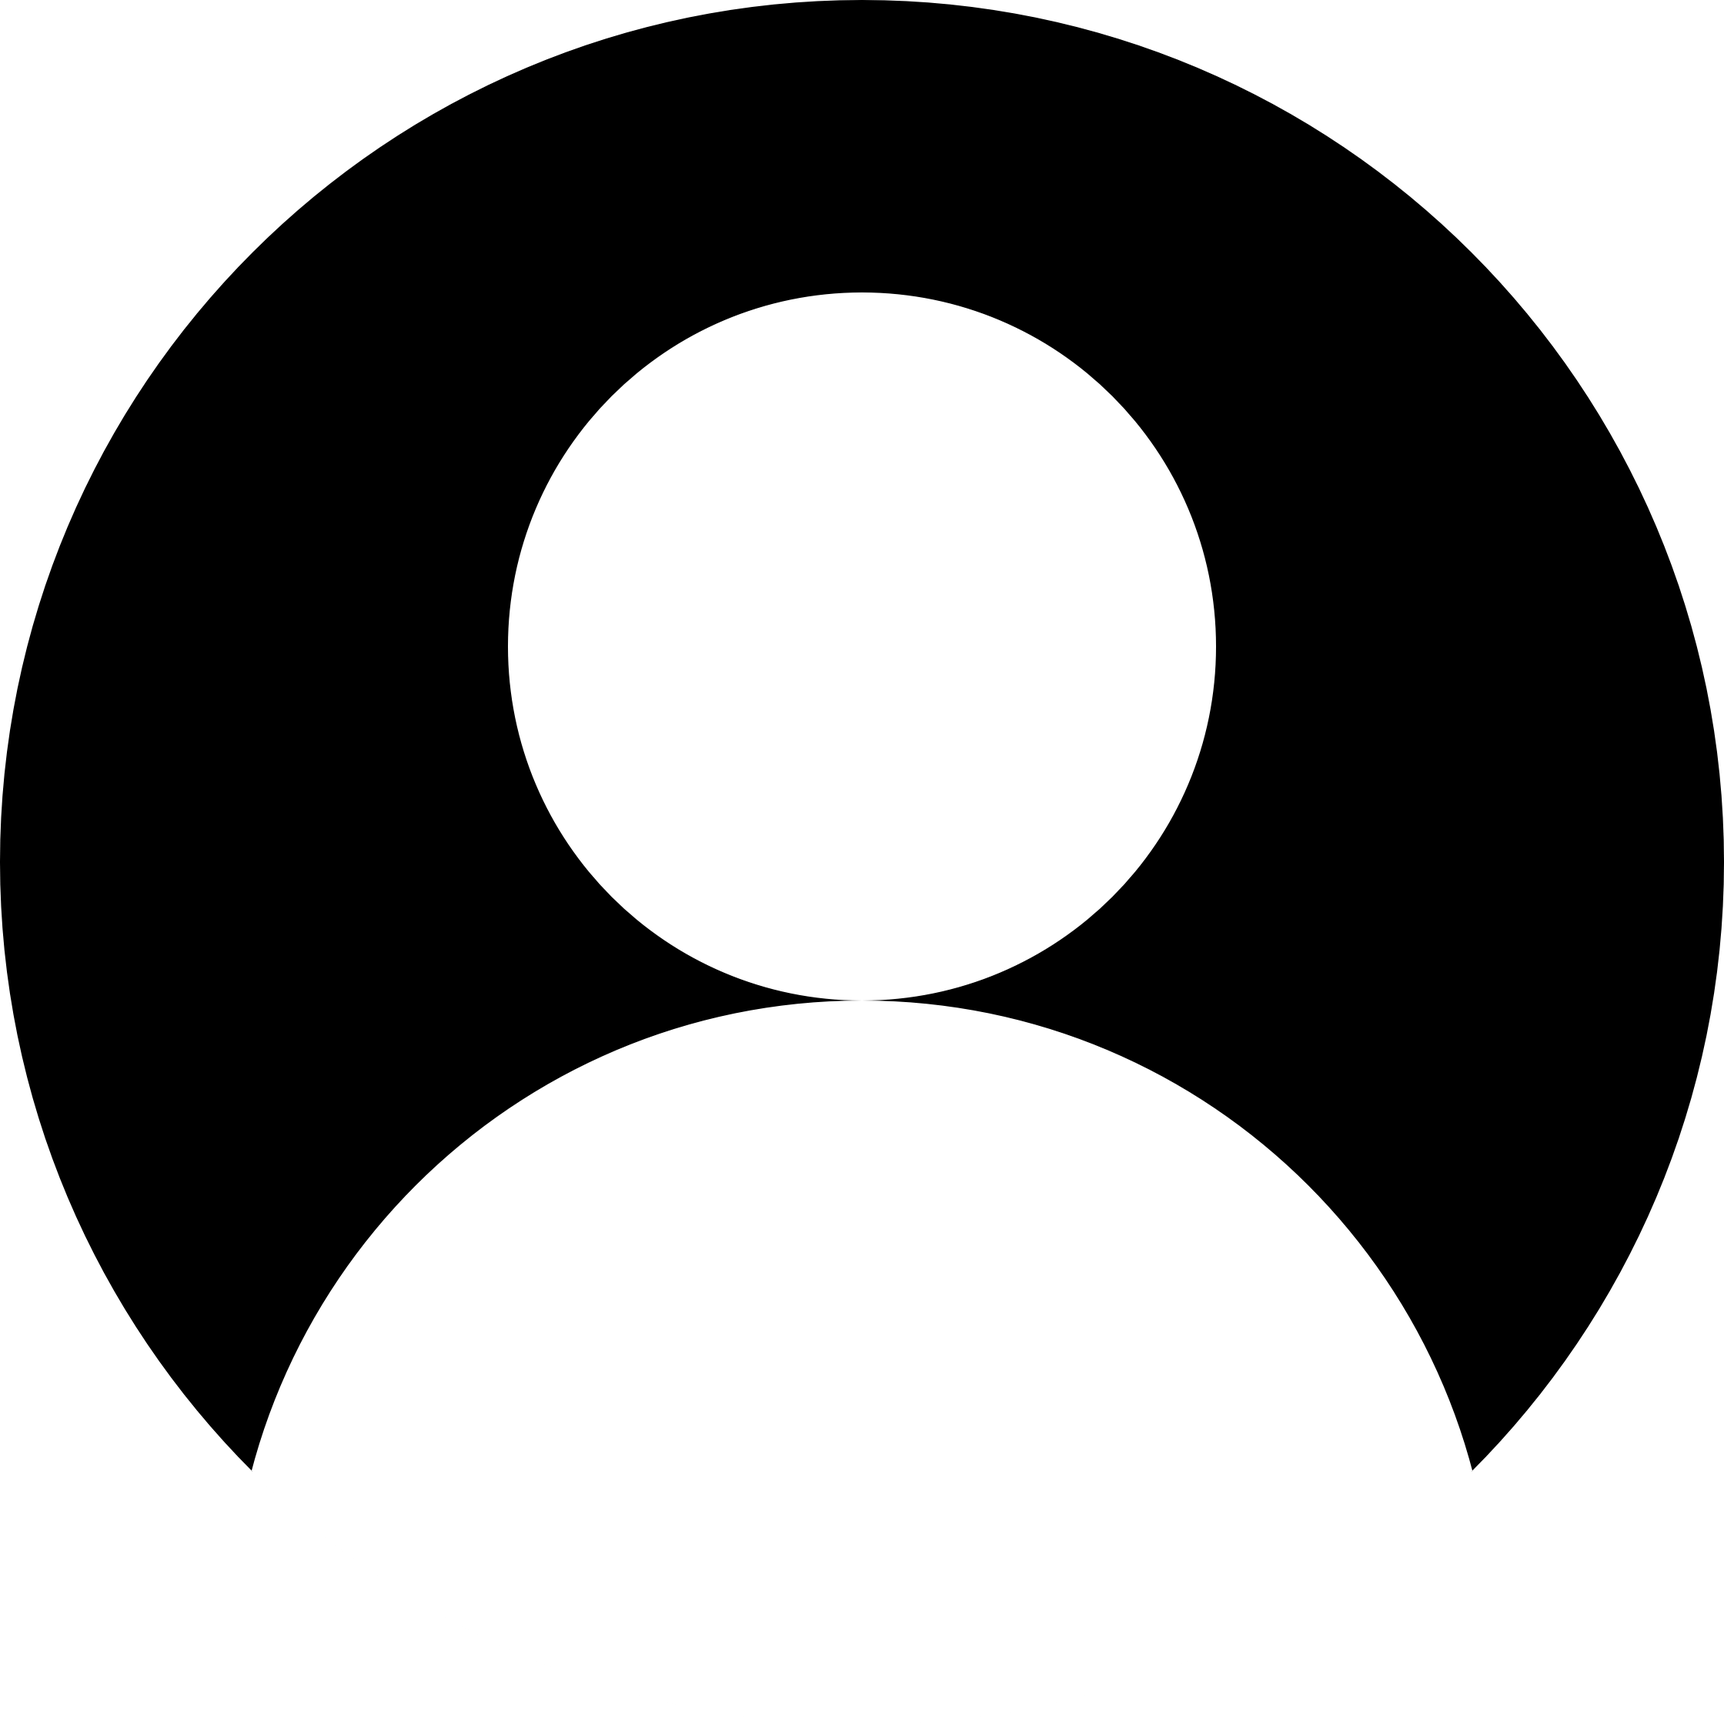
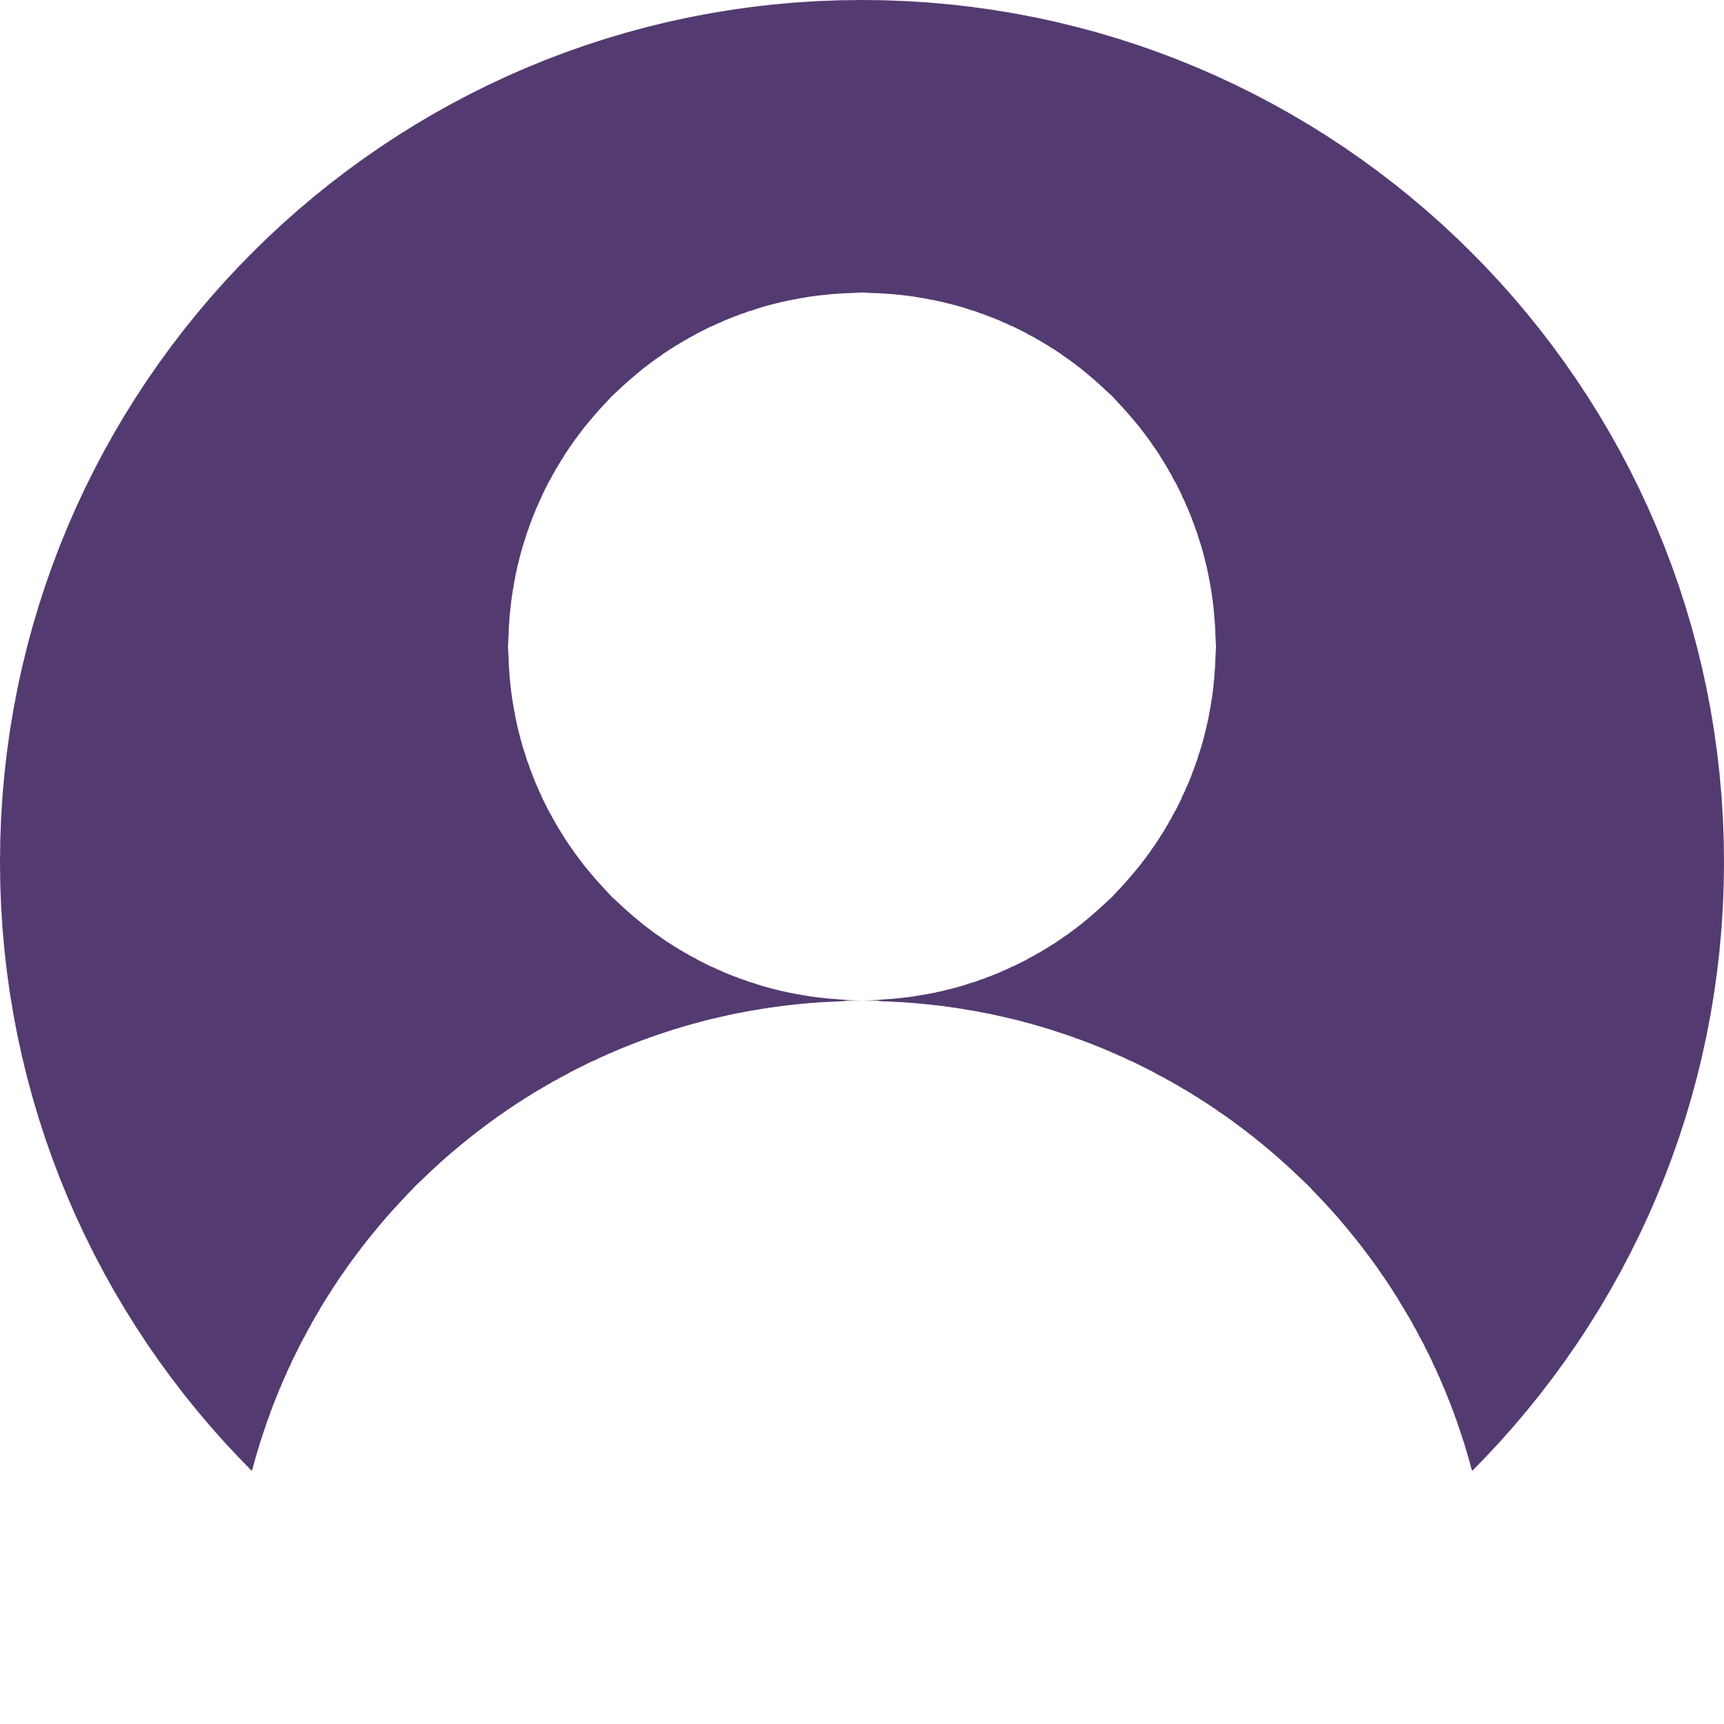
front-end for login & signup
haven't updated the test cases tho

diff --git a/components/signup.js b/components/signup.js
@@ -7,6 +7,7 @@ import { addDoc, collection, setDoc, doc, query, where, getDocs } from "firebase
 import { createUserWithEmailAndPassword } from "firebase/auth";
 import { auth, db } from "../firebaseConfig";
 import { useRouter } from "next/router";
+import Link from "next/link";
 
 export default function Signup(){
 
@@ -61,34 +62,46 @@ export default function Signup(){
     })
 
     return (
-        <div className="flex flex-col p-10">
-            <h1 className="mx-auto mb-10" data-testid="page_title">Signup page</h1>
-            
-            <div className="flex flex-col mx-auto w-2/5 h-auto py-5 rounded-xl bg-white shadow-lg">
+        <div className='bg-signup_page bg-no-repeat bg-cover bg-fixed w-full h-screen'>
+            <div className="flex flex-col p-10">
+                <h1 className="mx-auto mb-8 text-[32px] font-logo text-white" data-testid="page_title">SIGN UP</h1>
+                
+                <div className="flex flex-col mx-auto w-2/5 h-auto py-5 rounded-xl bg-white shadow-lg opacity-90">
 
-                <form className="flex flex-col mx-auto w-full h-[400px] py-5 rounded-xl" data-testid="form">
-                    
-                    <p className={`${emailExists ? "" : "hidden"} text-red-500 mx-auto`}>Error: Invalid Email / Email already taken</p>
-                    <label className="w-2/3 mx-auto mt-10" htmlFor="email">Email:</label>
-                    <input className="w-2/3 h-10 mx-auto mb-10 border border-black rounded-md px-2" placeholder="Email..." type="text" name="email" id="email" 
-                        onChange={(e) => setEmail(e.target.value) } data-testid="email_input" required
-                    />
+                    <form className="flex flex-col mx-auto w-full py-5 rounded-xl" data-testid="form">
+                        
+                        <div className='grid grid-flow-col auto-col-max w-2/3 mx-auto mt-4'>
+                            <label className="w-fit font-bold text-left ml-1" htmlFor="email">Email:</label>
+                            <span className={`${emailExists ? "" : "hidden"} text-red-500 text-right mr-1`} id='email-error'>Error: Invalid Email / Email already taken</span>
+                        </div>
+                        <input className="w-2/3 h-10 mx-auto mb-8 border border-black rounded-md px-2" placeholder="Email..." type="text" name="email" id="email" 
+                            onChange={(e) => setEmail(e.target.value) } data-testid="email_input" required
+                        />
 
-                    <label className="w-2/3 mx-auto" htmlFor="email">Password:</label>
-                    <input className="w-2/3 h-10 mx-auto mb-10 border border-black rounded-md px-2" placeholder="Password..." type="password" name="password" id="password" 
-                        onChange={(e) => setPass(e.target.value) } data-testid="pass_input" required
-                    />
-                    
-                    <p className={`${samePass ? "hidden" : ""} text-red-500 mx-auto`}>Error: Passwords do not match</p>
-                    <label className="w-2/3 mx-auto" htmlFor="email">Re-enter Password:</label>
-                    <input className="w-2/3 h-10 mx-auto border border-black rounded-md px-2" placeholder="Re-enter Password..." type="password" name="rep_pass" id="rep_pass" 
-                        onChange={(e) => setRepPass(e.target.value) } data-testid="rep_pass_input" required
-                    />
-                </form>
-            
-                <button className="w-1/3 mx-auto mb-10 py-2 rounded-[20px] bg-slate-200" type="submit" onClick={() => handleSubmit()} data-testid="submit_btn">
-                    Submit
-                </button>
+                        <label className="w-2/3 mx-auto font-bold" htmlFor="email">Password:</label>
+                        <input className="w-2/3 h-10 mx-auto mb-8 border border-black rounded-md px-2" placeholder="Password..." type="password" name="password" id="password" 
+                            onChange={(e) => setPass(e.target.value) } data-testid="pass_input" required
+                        />
+                        
+                        <div className='grid grid-flow-col auto-col-max w-2/3 mx-auto'>
+                            <label className="w-fit font-bold text-left ml-1" htmlFor="email">Re-enter Password:</label>
+                            <span className={`${samePass ? "hidden" : ""} text-red-500 text-right mr-1`} id='password-error'>Error: Passwords do not match</span>
+                        </div>
+                        <input className="w-2/3 h-10 mx-auto mb-8 border border-black rounded-md px-2" placeholder="Re-enter Password..." type="password" name="rep_pass" id="rep_pass" 
+                            onChange={(e) => setRepPass(e.target.value) } data-testid="rep_pass_input" required
+                        />
+                    </form>
+                
+                    <button className="w-1/3 mx-auto mb-8 py-2 rounded-[20px] bg-nav_bg font-bold text-white
+                                        hover:transition duration-300 hover:bg-nav_bg_dark" type="submit" onClick={() => handleSubmit()} data-testid="submit_btn">
+                        SIGN UP
+                    </button>
+
+                    <div className='flex justify-center py-2'>
+                        <span className='pr-1'>Already have an account?</span>
+                        <Link href="/login" className="hover:transition duration-300 hover:text-violet-800 hover:underline">Login</Link>
+                    </div>   
+                </div>
             </div>
         </div>
     )

diff --git a/components/login.js b/components/login.js
@@ -4,6 +4,7 @@ import { useState, useEffect } from "react";
 import { signInWithEmailAndPassword } from "firebase/auth";
 import { auth } from "../firebaseConfig";
 import { useRouter } from "next/router";
+import Link from "next/link";
 
 export default function Login(){
 
@@ -35,28 +36,37 @@ export default function Login(){
     })
 
     return (
-        <div className="flex flex-col p-10">
-            <h1 className="mx-auto mb-10" data-testid="page_title">Login page</h1>
-            
-            <div className="flex flex-col mx-auto w-2/5 h-auto py-5 rounded-xl bg-white shadow-lg">
-                <p className={`${wrongCred ? "" : "hidden"} text-red-500 mx-auto`}>Incorrect Email or Password</p>
+        <div className='bg-login_page bg-no-repeat bg-cover bg-fixed w-full h-screen'>
+            <div className="flex flex-col p-10">
+                <h1 className="mx-auto mb-8 text-[32px] font-logo text-white" data-testid="page_title">LOGIN</h1>
+                
+                <div className="flex flex-col mx-auto w-2/5 h-auto py-5 rounded-xl bg-white shadow-lg opacity-90">
+                    <form className="flex flex-col mx-auto w-full pt-5 rounded-xl" data-testid="form">
+                        
+                        <label className="w-2/3 mx-auto mt-10 font-bold" htmlFor="email">Email:</label>
+                        <input className="w-2/3 h-10 mx-auto mb-10 border border-black rounded-md px-2" placeholder="Email..." type="text" name="email" id="email" 
+                            onChange={(e) => setEmail(e.target.value) } required onKeyDown={(e) => {e.key == 'enter' ? handleSubmit() : ""}} data-testid="email_input" 
+                        />
 
-                <form className="flex flex-col mx-auto w-full h-[400px] py-5 rounded-xl">
-                    
-                    <label className="w-2/3 mx-auto mt-10" htmlFor="email">Email:</label>
-                    <input className="w-2/3 h-10 mx-auto mb-10 border border-black rounded-md px-2" placeholder="Email..." type="text" name="email" id="email" 
-                        onChange={(e) => setEmail(e.target.value) } required onKeyDown={(e) => {e.key == 'enter' ? handleSubmit() : ""}} data-testid="email_input" 
-                    />
+                        <label className="w-2/3 mx-auto font-bold" htmlFor="email">Password:</label>
+                        <input className="w-2/3 h-10 mx-auto mb-10 border border-black rounded-md px-2" placeholder="Password..." type="password" name="password" id="password" 
+                            onChange={(e) => setPass(e.target.value) } required onKeyDown={(e) => {e.key == 'enter' ? handleSubmit() : ""}} data-testid="pass_input" 
+                        />
+                        
+                    </form>
 
-                    <label className="w-2/3 mx-auto" htmlFor="email">Password:</label>
-                    <input className="w-2/3 h-10 mx-auto mb-10 border border-black rounded-md px-2" placeholder="Password..." type="password" name="password" id="password" 
-                        onChange={(e) => setPass(e.target.value) } required onKeyDown={(e) => {e.key == 'enter' ? handleSubmit() : ""}} data-testid="pass_input" 
-                    />
-                    
-                </form>
-            
-                <button className="w-1/3 mx-auto mb-10 py-2 rounded-[20px] bg-slate-200" type="submit" data-testid="submit_btn" 
-                    onClick={() => handleSubmit()}>Submit</button>
+                    <p className={`${wrongCred ? "" : "invisible"} text-red-500 mx-auto my-3`}>Incorrect Email or Password</p>
+                
+                    <button className="w-1/3 mx-auto mb-8 py-2 rounded-[20px] bg-nav_bg font-bold text-white
+                                        hover:transition duration-300 hover:bg-nav_bg_dark" type="submit" onClick={() => handleSubmit()} data-testid="submit_btn">
+                        LOGIN
+                    </button>
+
+                    <div className='flex justify-center py-2'>
+                        <span className='pr-1'>Don't have an account yet?</span>
+                        <Link href="/signup" className="hover:transition duration-300 hover:text-violet-800 hover:underline">Sign Up</Link>
+                    </div>   
+                </div>
             </div>
         </div>
     )

diff --git a/components/navbar.js b/components/navbar.js
@@ -50,25 +50,26 @@ export default function Navbar() {
     }
 
     return (
-        <div className="w-full h-20 bg-nav_bg flex px-10 drop-shadow-lg shadow-sm text-white sticky top-0 z-50"
+        <div className="w-full h-20 bg-nav_bg flex px-10 drop-shadow-lg shadow-sm text-white sticky top-0 z-50
+                        grid grid-flow-col auto-col-max"
                 data-testid="nav_container">
 
-            <div className="my-auto w-1/4">
+            <div className="my-auto w-fit">
                 <Link href="/" className="hover:transition duration-300 hover:text-violet-800 w-fit flex items-center">
-                    <Image src={"/images/logo.png"} width={50} height={50} />
+                    <Image src={"/images/logo.png"} width={50} height={50} alt="FaceGram logo" />
                     <span className="w-fit px-2 text-[32px] font-logo">FaceGram</span>
                 </Link>
             </div>
             
 
-            <div className="mx-auto my-auto w-2/3 flex justify-end">
+            <div className="mx-auto my-auto w-full flex justify-end col-span-3">
                 <input className="my-auto h-12 w-1/2 px-5 rounded-full text-black focus:outline-blue-100" 
                     onKeyDown={(e) => {
                         console.log(e.key)
-                    }} type="text" placeholder="Search..."/>
+                    }} type="text" size="75" placeholder="Search..."/>
             </div>
             
-            <div className="ml-auto flex gap-5 w-1/4 justify-end">
+            <div className="ml-auto pl-3 flex gap-5 w-fit justify-end">
                 <div className={`my-auto flex items-center ${currUser ? "" : "hidden"}`} >
                     <div className="hover:transition duration-300 hover:text-violet-800 cursor-pointer flex items-center"
                         onClick={() => handlePost()}>
@@ -82,7 +83,7 @@ export default function Navbar() {
                 
 
                 <div className={`my-auto ${currUser ? "hidden" : ""}`} data-testid="signup_link">
-                    <Link href="/signup" className="hover:transition duration-300 hover:text-violet-800">Signup</Link>
+                    <Link href="/signup" className="hover:transition duration-300 hover:text-violet-800">Sign Up</Link>
                 </div>
 
                 <div className={`my-auto ${currUser ? "hidden" : ""}`} data-testid="login_link">

diff --git a/__tests__/snapshot.js b/__tests__/snapshot.js
@@ -1,13 +1,33 @@
-import { render } from '@testing-library/react'
-import Card from '../components/card'
-import Homepage from '../components/homepage'
+// Jest Snapshot v1, https://goo.gl/fbAQLP
 
-// it('renders homepage unchanged', () => {
-//     const { container } = render(<Homepage />)
-//     expect(container).toMatchSnapshot()
-// })
-
-// it('renders card unchanged', () => {
-//   const { container } = render(<Card />)
-//   expect(container).toMatchSnapshot()
-// })
+exports[`renders homepage unchanged 1`] = `
+<div>
+  <div
+    class="text-center mt-5"
+  >
+    <div
+      class="mb-5 w-1/4 mx-auto bg-[#4487d4] rounded-lg py-2 cursor-pointer hover:brightness-90"
+    >
+      <p
+        class="text-[20px] text-white"
+      >
+        POST AN IMAGE
+      </p>
+    </div>
+    <div
+      class="w-[50px] h-[50px] mx-auto mb-5 relative justify-center"
+    >
+      <img
+        alt=""
+        data-nimg="fill"
+        decoding="async"
+        loading="lazy"
+        sizes="(max-width: 500px)"
+        src="/_next/image?url=%2Fimages%2Floading.gif&w=3840&q=75"
+        srcset="/_next/image?url=%2Fimages%2Floading.gif&w=16&q=75 16w, /_next/image?url=%2Fimages%2Floading.gif&w=32&q=75 32w, /_next/image?url=%2Fimages%2Floading.gif&w=48&q=75 48w, /_next/image?url=%2Fimages%2Floading.gif&w=64&q=75 64w, /_next/image?url=%2Fimages%2Floading.gif&w=96&q=75 96w, /_next/image?url=%2Fimages%2Floading.gif&w=128&q=75 128w, /_next/image?url=%2Fimages%2Floading.gif&w=256&q=75 256w, /_next/image?url=%2Fimages%2Floading.gif&w=384&q=75 384w, /_next/image?url=%2Fimages%2Floading.gif&w=640&q=75 640w, /_next/image?url=%2Fimages%2Floading.gif&w=750&q=75 750w, /_next/image?url=%2Fimages%2Floading.gif&w=828&q=75 828w, /_next/image?url=%2Fimages%2Floading.gif&w=1080&q=75 1080w, /_next/image?url=%2Fimages%2Floading.gif&w=1200&q=75 1200w, /_next/image?url=%2Fimages%2Floading.gif&w=1920&q=75 1920w, /_next/image?url=%2Fimages%2Floading.gif&w=2048&q=75 2048w, /_next/image?url=%2Fimages%2Floading.gif&w=3840&q=75 3840w"
+        style="position: absolute; height: 100%; width: 100%; left: 0px; top: 0px; right: 0px; bottom: 0px; color: transparent;"
+      />
+    </div>
+  </div>
+</div>
+`;

diff --git a/components/card.js b/components/card.js
@@ -38,7 +38,9 @@ export default function Card( { username, imageSrc, caption, profpic } ) {
             <p className="mb-5 text-left" data-testid="caption">{caption}</p>
 
             <div className="flex-col w-full">
-                <p className="px-5 py-2 w-full text-left brightness-95 hover:brightness-90 cursor-pointer bg-card_bg rounded-lg select-none">Comments ...</p>
+                <p className="px-5 py-2 w-full text-left brightness-95 hover:brightness-90 cursor-pointer bg-card_bg rounded-lg select-none">
+                    <i class="fa fa-comment pr-2" />Comments ...
+                </p>
 
                 <div className="flex flex-col mt-5">
                     <div className="flex w-full">

diff --git a/tailwind.config.js b/tailwind.config.js
@@ -22,7 +22,12 @@ module.exports = {
         'nav_bg_dark': '#3AA1A3',
         'doc_bg': '#ECF9FF',
         'feed_bg': '#D0DBE5',
+        'icon_color': '#583A71', 
       },
+      backgroundImage: {
+        'signup_page': "url('/images/signup_bg.png')",
+        'login_page': "url('/images/login_bg.png')",
+      }
     },
   },
   plugins: [],

diff --git a/pages/_document.tsx b/pages/_document.tsx
@@ -16,7 +16,7 @@ export default function Document() {
         <title>FaceGram</title>
         
       </Head>
-      <body className='bg-doc_bg'>
+      <body className='bg-doc_bg text-gray-800'>
         <Main />
         <NextScript />
       </body>
